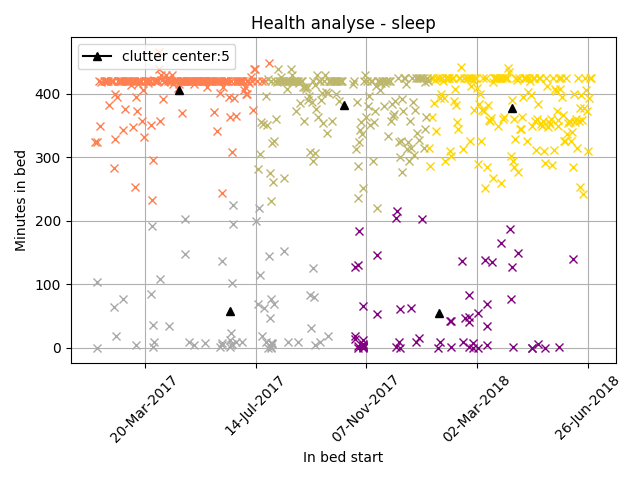
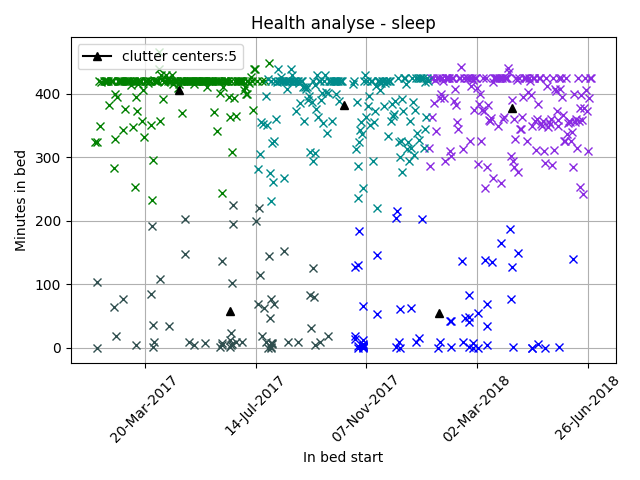
update center to centers.

diff --git a/kmeans/kmeans.py b/kmeans/kmeans.py
@@ -164,7 +164,7 @@ def draw_2d(
         x_label ='x',
         y_label = 'y',
         marker = '*',
-        point_label = 'clutter center',
+        point_label = 'clutter centers',
         is_time_sequence = False,
         save_path = 'draw_2d_figure'
         ):
